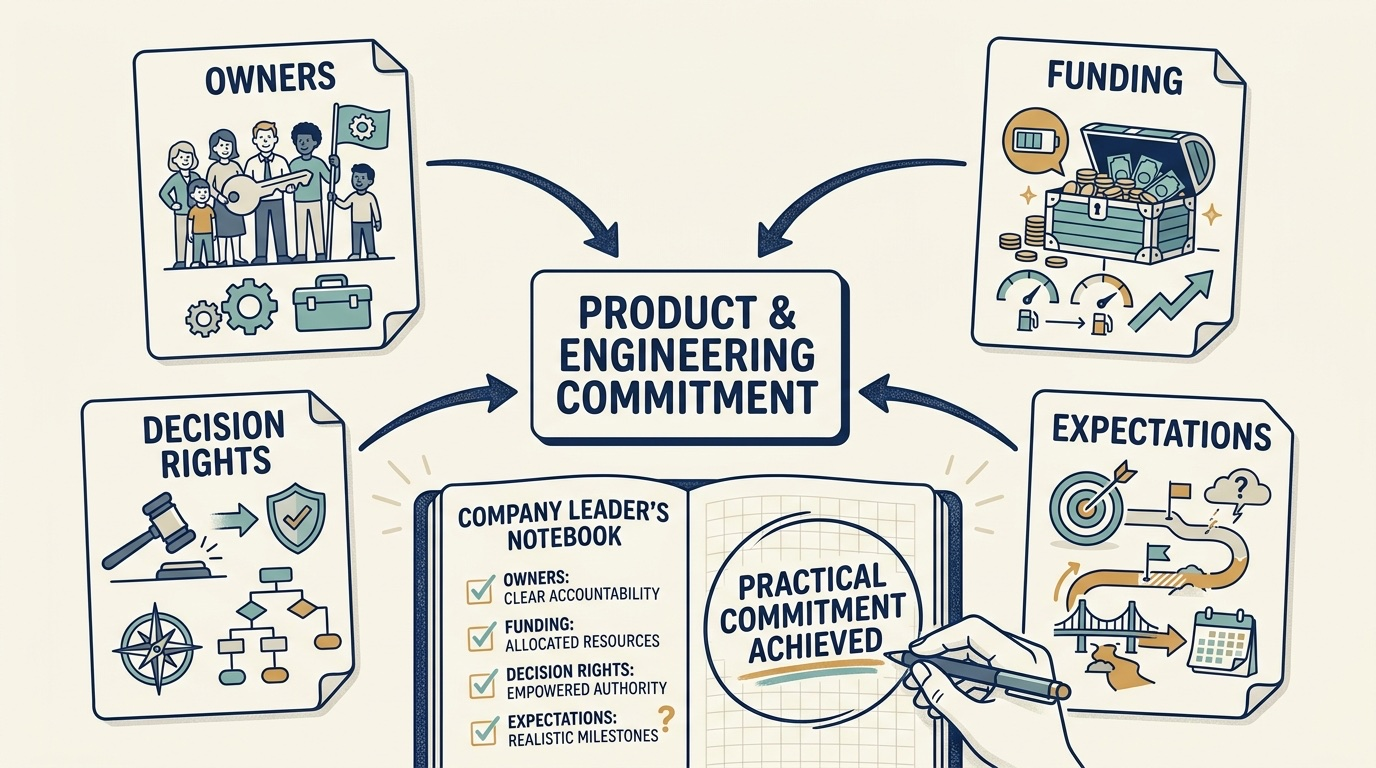
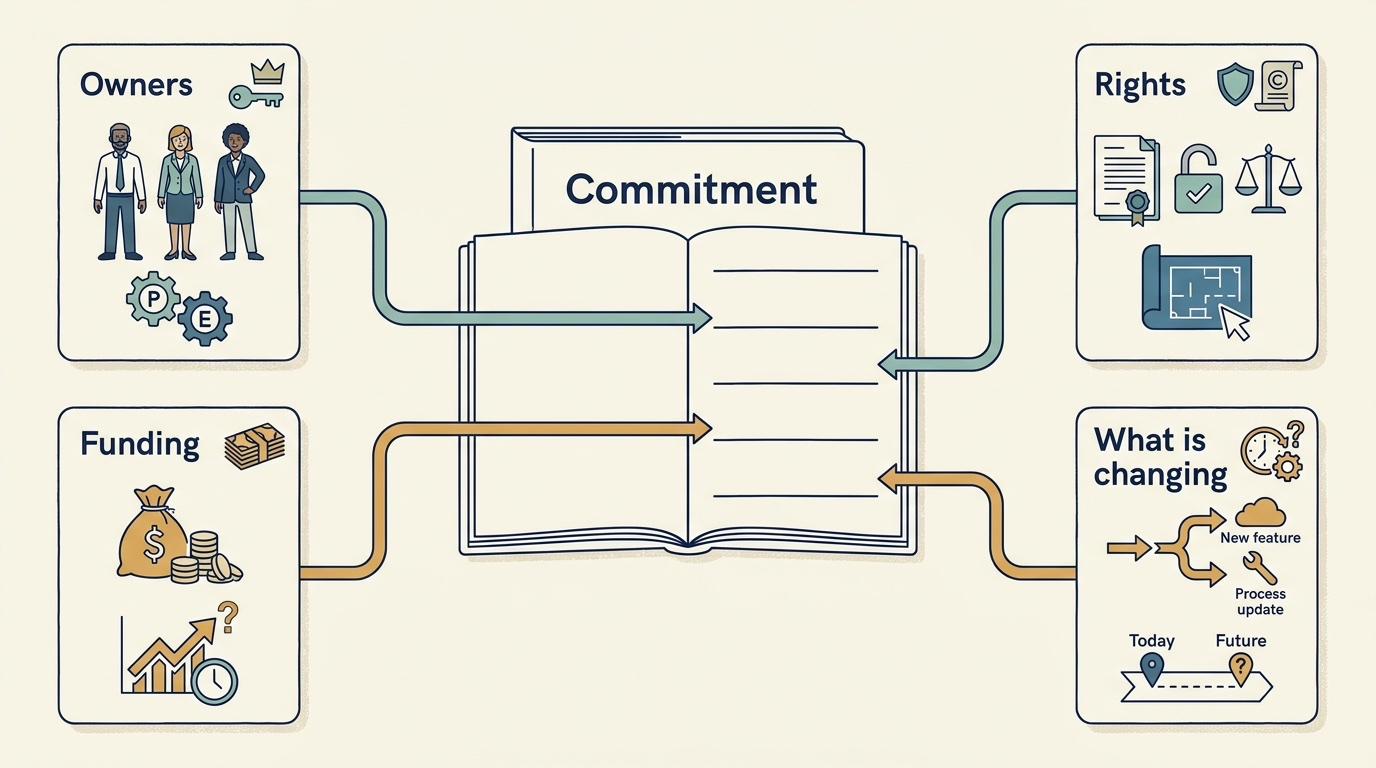
private techuity first draft

diff --git a/manuscripts/owned/introduction.md b/manuscripts/owned/introduction.md
@@ -22,9 +22,13 @@ The company’s ownership setting doesn’t remove your judgment or responsibili
 {id: introduction--why-this-book-exists-and-how-it-is-written}
 ## Why This Book Exists, and How It Is Written
 
-The financial, legal, and general business aspects of outside investment are well covered: there is no shortage of material on term sheets, valuations, fund structures, and deal mechanics. Far less has been written about **what an external investment does to product and engineering**: which commitments it creates, which money and authority the team can actually count on, and how a roadmap, an architecture decision or a hiring plan should change once the ownership changes. This gap breeds **mystery and confusion** inside companies, and it **costs them opportunities**, because leaders who cannot read the arrangement cannot use it. It also **invites misuse**. Claims that begin with “investors want us to…” are used to push agendas that nobody in the room has examined, often without anyone knowing what th e investors actually require or whether they were even asked. This book exists to close that gap from the company leader’s side: to give product and engineering leaders the vocabulary and working methods to test such claims, ask the right questions, and make commitments they can keep.
+The financial, legal, and general business aspects of outside investment are well covered: there is no shortage of material on term sheets, valuations, fund structures, and deal mechanics. In the author’s experience as a technology leader and adviser, far less has been written about **what an external investment does to product and engineering**: which commitments it creates, which money and authority the team can actually count on, and how a roadmap, an architecture decision or a hiring plan should change once the ownership changes. That is an observation from practice, not a survey of the literature.
 
-This book is a living journal and a work in progress: a draft by [Željko Obrenović](https://obren.io), who keeps revising it as he learns more about its topics. Chapters change as better evidence, sharper examples, and reader questions arrive; the specifications and revision log beside each chapter record what changed and why. Read it as current thinking with its limits stated, not as a finished text.
+The same experience suggests what the gap costs. Inside companies it breeds **confusion**, and it **costs them opportunities**, because leaders who cannot read the arrangement cannot use it. It also **invites misuse**: a sentence that begins “investors want us to…” can carry an agenda nobody in the room has examined, sometimes without anyone knowing what the investors actually require or whether they were even asked. How often that happens is not measured here; that it happens at all is reason enough to be able to check.
+
+This book is the response, written from the company leader’s side: the vocabulary to read the arrangement, working methods to test such claims, and worked decisions that show what a commitment the team can keep looks like.
+
+This book is a living journal and a work in progress: a draft by [Željko Obrenović](https://obren.io), who keeps revising it as he learns more about its topics. Chapters change as better evidence, sharper examples, and reader questions arrive. Each chapter’s page carries a “View spec” link to the specification it was written against; the changelog at the end of that specification records what changed and why. Read the book as current thinking with its limits stated, not as a finished text.
 
 {id: introduction--start-with-the-decision-in-front-of-you}
 ## Start With the Decision in Front of You
@@ -50,15 +54,15 @@ This book focuses mainly on private companies working with **outside investors**
 
 To understand the impact of any outside investment, keep **four questions** separate: who the owners are, what rights they have, how the company is funded, and what is changing.
 
-The first question, who the owners are, is where most of the labels come from. A **venture investor** funds a young company still searching for a repeatable business. A **growth investor** funds the expansion of a business with established demand. A **buyout investor** purchases control. A **corporate investor** is another operating business investing for financial or commercial reasons; it may hold a minority stake or acquire the company outright.
+The first question, who the owners are, is where most of the labels come from. A **venture investor** typically funds a young company that is still proving its product or business model, though venture funds also invest in successive rounds of companies already scaling an established product. A **growth investor** funds the expansion of a business with established demand; the venture and growth labels overlap at that later stage, and the round’s terms matter more than its name. A **buyout investor** purchases control. A **corporate investor** is another operating business investing for financial or commercial reasons; it may hold a minority stake or acquire the company outright.
 
 These labels tell you roughly what kind of investor you’re dealing with, but not the answers to the other three questions. Rights don’t automatically follow from stake size: a minority investment can carry important approval rights without conferring control. Funding doesn’t follow from deal type: borrowing is a way to raise money and isn’t confined to buyouts. And the nature of the change is separate again: a **carve-out** takes a business out of a larger company, a **turnaround** fixes serious business problems, and either can involve any of the owner types above.
 
 The practical impact of any investment therefore depends on its actual terms, **established case by case**: the investor’s rights, the financing, the support available and the time horizon. The events a leader faces, from a first round to a sale or continued ownership, arrive in any order; each sends you to a different part of the book, which is why the routes above exist.
 
-![A company commitment depends on actual owners, funding, decision rights and expectations.](private-techuity/posts/introduction/assets/images/introduction/four-questions-before-a-commitment.jpeg)
+![A company commitment depends on four separate questions: who the owners are, what rights they have, how the company is funded and what is changing.](private-techuity/posts/introduction/assets/images/introduction/four-questions-before-a-commitment.jpeg)
 
-**Figure 1:** *A company commitment depends on actual owners, funding, decision rights and expectations.*
+**Figure 1:** *Keep the four questions separate before a commitment: who the owners are, what rights they have, how the company is funded and what is changing.*
 
 {id: introduction--how-the-parts-build-on-each-other}
 ## How the Parts Build on Each Other
@@ -80,14 +84,25 @@ Ines is the **chief executive officer (CEO)**, leading the company. Alex is the 
 
 The chapters place Larkspur in alternative situations: learning with limited cash, expanding with growth funding, operating after a buyout, or working with a corporate owner. These are fictional decision exercises, not a single company history. Each example states its own assumptions; its figures do not combine into one set of accounts.
 
-One chain is a deliberate exception, and it is the only one. A single onboarding finding — that setting up a new customer depends on one specialist’s manual work — is carried from the investigation before the investment ([Diligence Is Your Chance to Correct the Plan Before It Is Signed](#diligence-corrects-the-plan)) into the funded early plan and its day-100 review ([The First Hundred Days: Turn Expectations Into a Funded Plan](#first-hundred-days)) and on into the handover ([Hand Over the Obligations, Not Just the Company](#handover-of-obligations)). The same initiative and the recovery test funded beside it also appear earlier, in the restore chapter of Part III ([Prove You Can Restore, Not Just That You Back Up](#prove-you-can-restore)) and in the support chapters of Part IV ([Find the Help That Changes What Your Team Can Do](#help-that-changes-capability), [Turn an Offer of Help Into a Useful Engagement](#useful-engagement)); the [Practical Tools for Ownership and Technology Decisions](#toolkit) shows the record those chapters write, stage by stage, with the same identifiers. Follow that chain if you want to see one decision carried all the way through, from evidence to money to what was left undone. The delayed-financing chapter ([The Roadmap Did Not Slip, the Financing Did](#the-financing-slipped)) is a separate illustration: it shows how a dated cash forecast changes commitments when expected money arrives late, and its cash, burn, hires and dates are its own and do not add to the chain’s figures. “€m” means millions of euros.
+One chain is a deliberate exception, and it is the only one. A single onboarding finding, that setting up a new customer depends on one specialist’s manual work, is carried through six chapters and the toolkit with the same identifiers:
+
+1. the investigation before the investment, [Diligence Is Your Chance to Correct the Plan Before It Is Signed](#diligence-corrects-the-plan);
+2. the funded early plan, [The First Hundred Days: Turn Expectations Into a Funded Plan](#first-hundred-days), which allocates one envelope, and [You Cannot Fund Every Good Project at Once](#cannot-fund-everything), which chooses within it and revises the choice when a test fails;
+3. the recovery test funded beside the pilot, [Prove You Can Restore, Not Just That You Back Up](#prove-you-can-restore);
+4. the investor’s support for the pilot, [Find the Help That Changes What Your Team Can Do](#help-that-changes-capability) and [Turn an Offer of Help Into a Useful Engagement](#useful-engagement);
+5. the pilot’s measured outcome and the decision it supports, [The Chain From Roadmap to Revenue Breaks Easily](#roadmap-to-revenue);
+6. the handover of what was paid, owed and left undone, [Hand Over the Obligations, Not Just the Company](#handover-of-obligations).
+
+The [Practical Tools for Ownership and Technology Decisions](#toolkit) shows the record those chapters write, stage by stage. Follow that chain to see one decision carried all the way through, from evidence to money to what was left undone.
+
+The delayed-financing chapter ([The Roadmap Did Not Slip, the Financing Did](#the-financing-slipped)) is not part of that chain. It is a separate illustration of how a dated cash forecast changes commitments when expected money arrives late; its cash, burn, hires and dates are its own and do not add to the chain’s figures. “€m” means millions of euros.
 
 {id: introduction--choose-a-reading-format}
 ## Choose a Reading Format
 
 Each main chapter provides an **Article** and a 300–500-word **TL;DR** summary. TL;DR means “too long; didn’t read.” All thirty main chapters also have a six-panel **Comic**, illustrated, with captions and dialogue transcripts. The six part introductions and the reference pages have no TL;DR or comic.
 
-For a shorter first pass, read the part introductions and the summaries. The formats are companions rather than substitutes. Each one is written to reach the same decision and to keep the conditions that decide whether that decision holds; what varies is depth, because only the article carries the worked figures, the sources and the cases where the conclusion would change. The summaries and comics of this September 2026 revision are still being reconciled chapter by chapter, so where a short format and the article disagree, the article is the one to trust.
+For a shorter first pass, read the part introductions and the summaries. The formats are companions rather than substitutes. Each one is written to reach the same decision and to keep the conditions that decide whether that decision holds; what varies is depth: the article gives the fullest calculations, the discussion of sources and the alternative cases, while every format keeps the conditions that would change the decision. The summaries and comics of this September 2026 revision are still being reconciled chapter by chapter, so where a short format and the article disagree, the article is the one to trust.
 
 {id: introduction--read-the-evidence-with-its-limits}
 ## Read the Evidence With Its Limits
